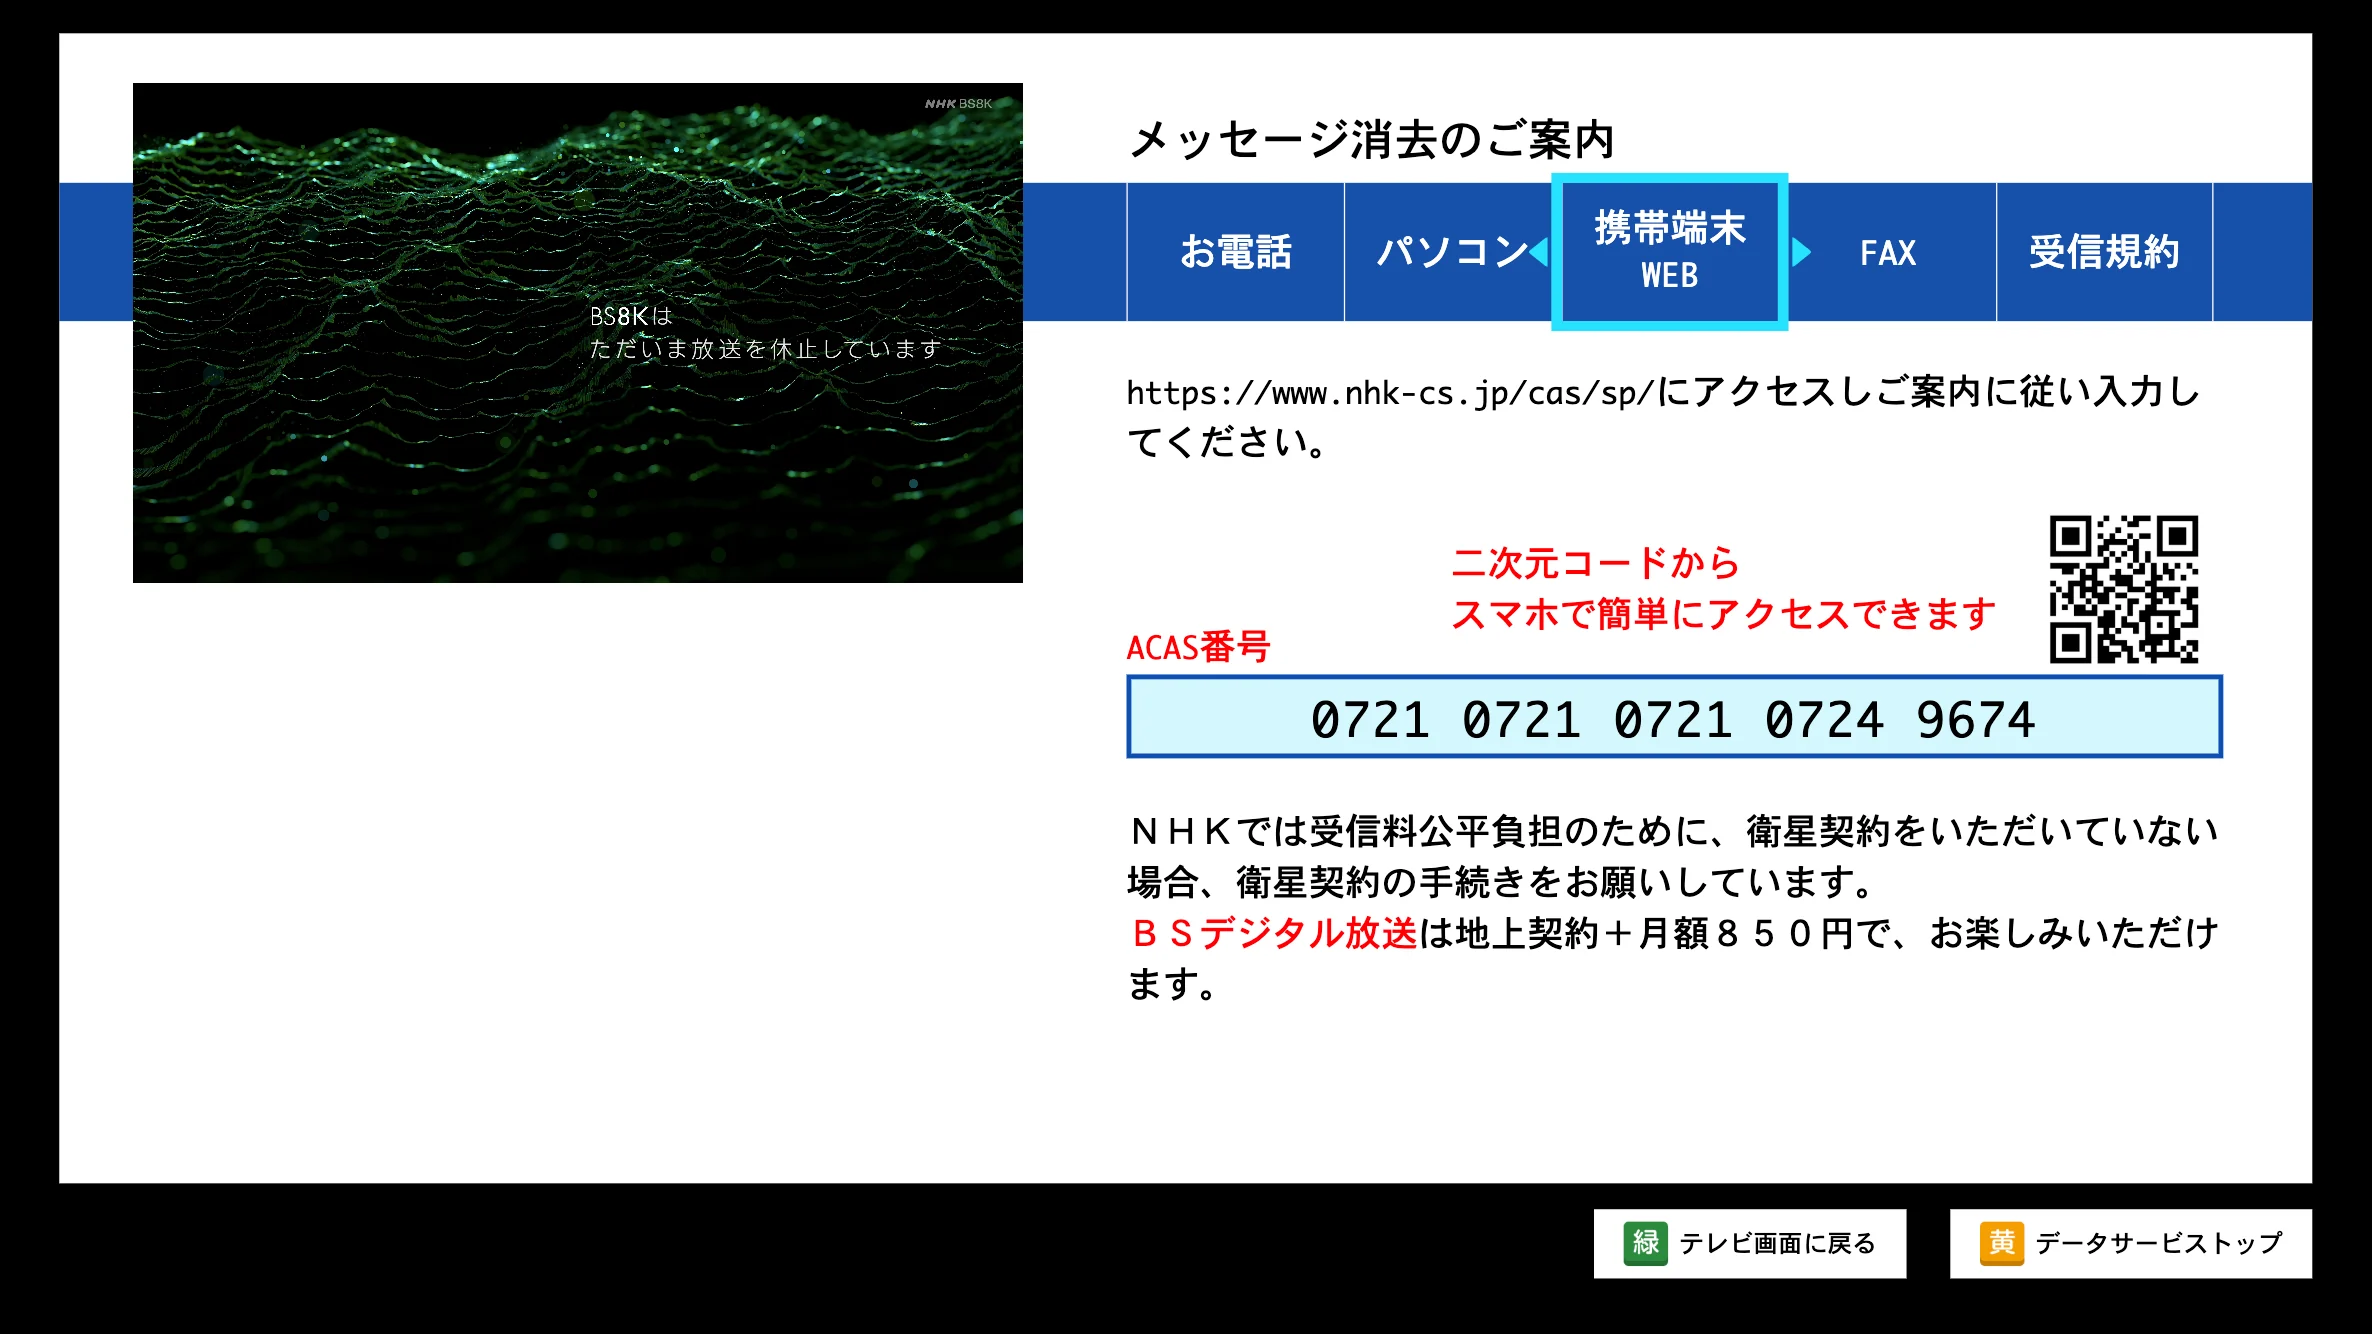
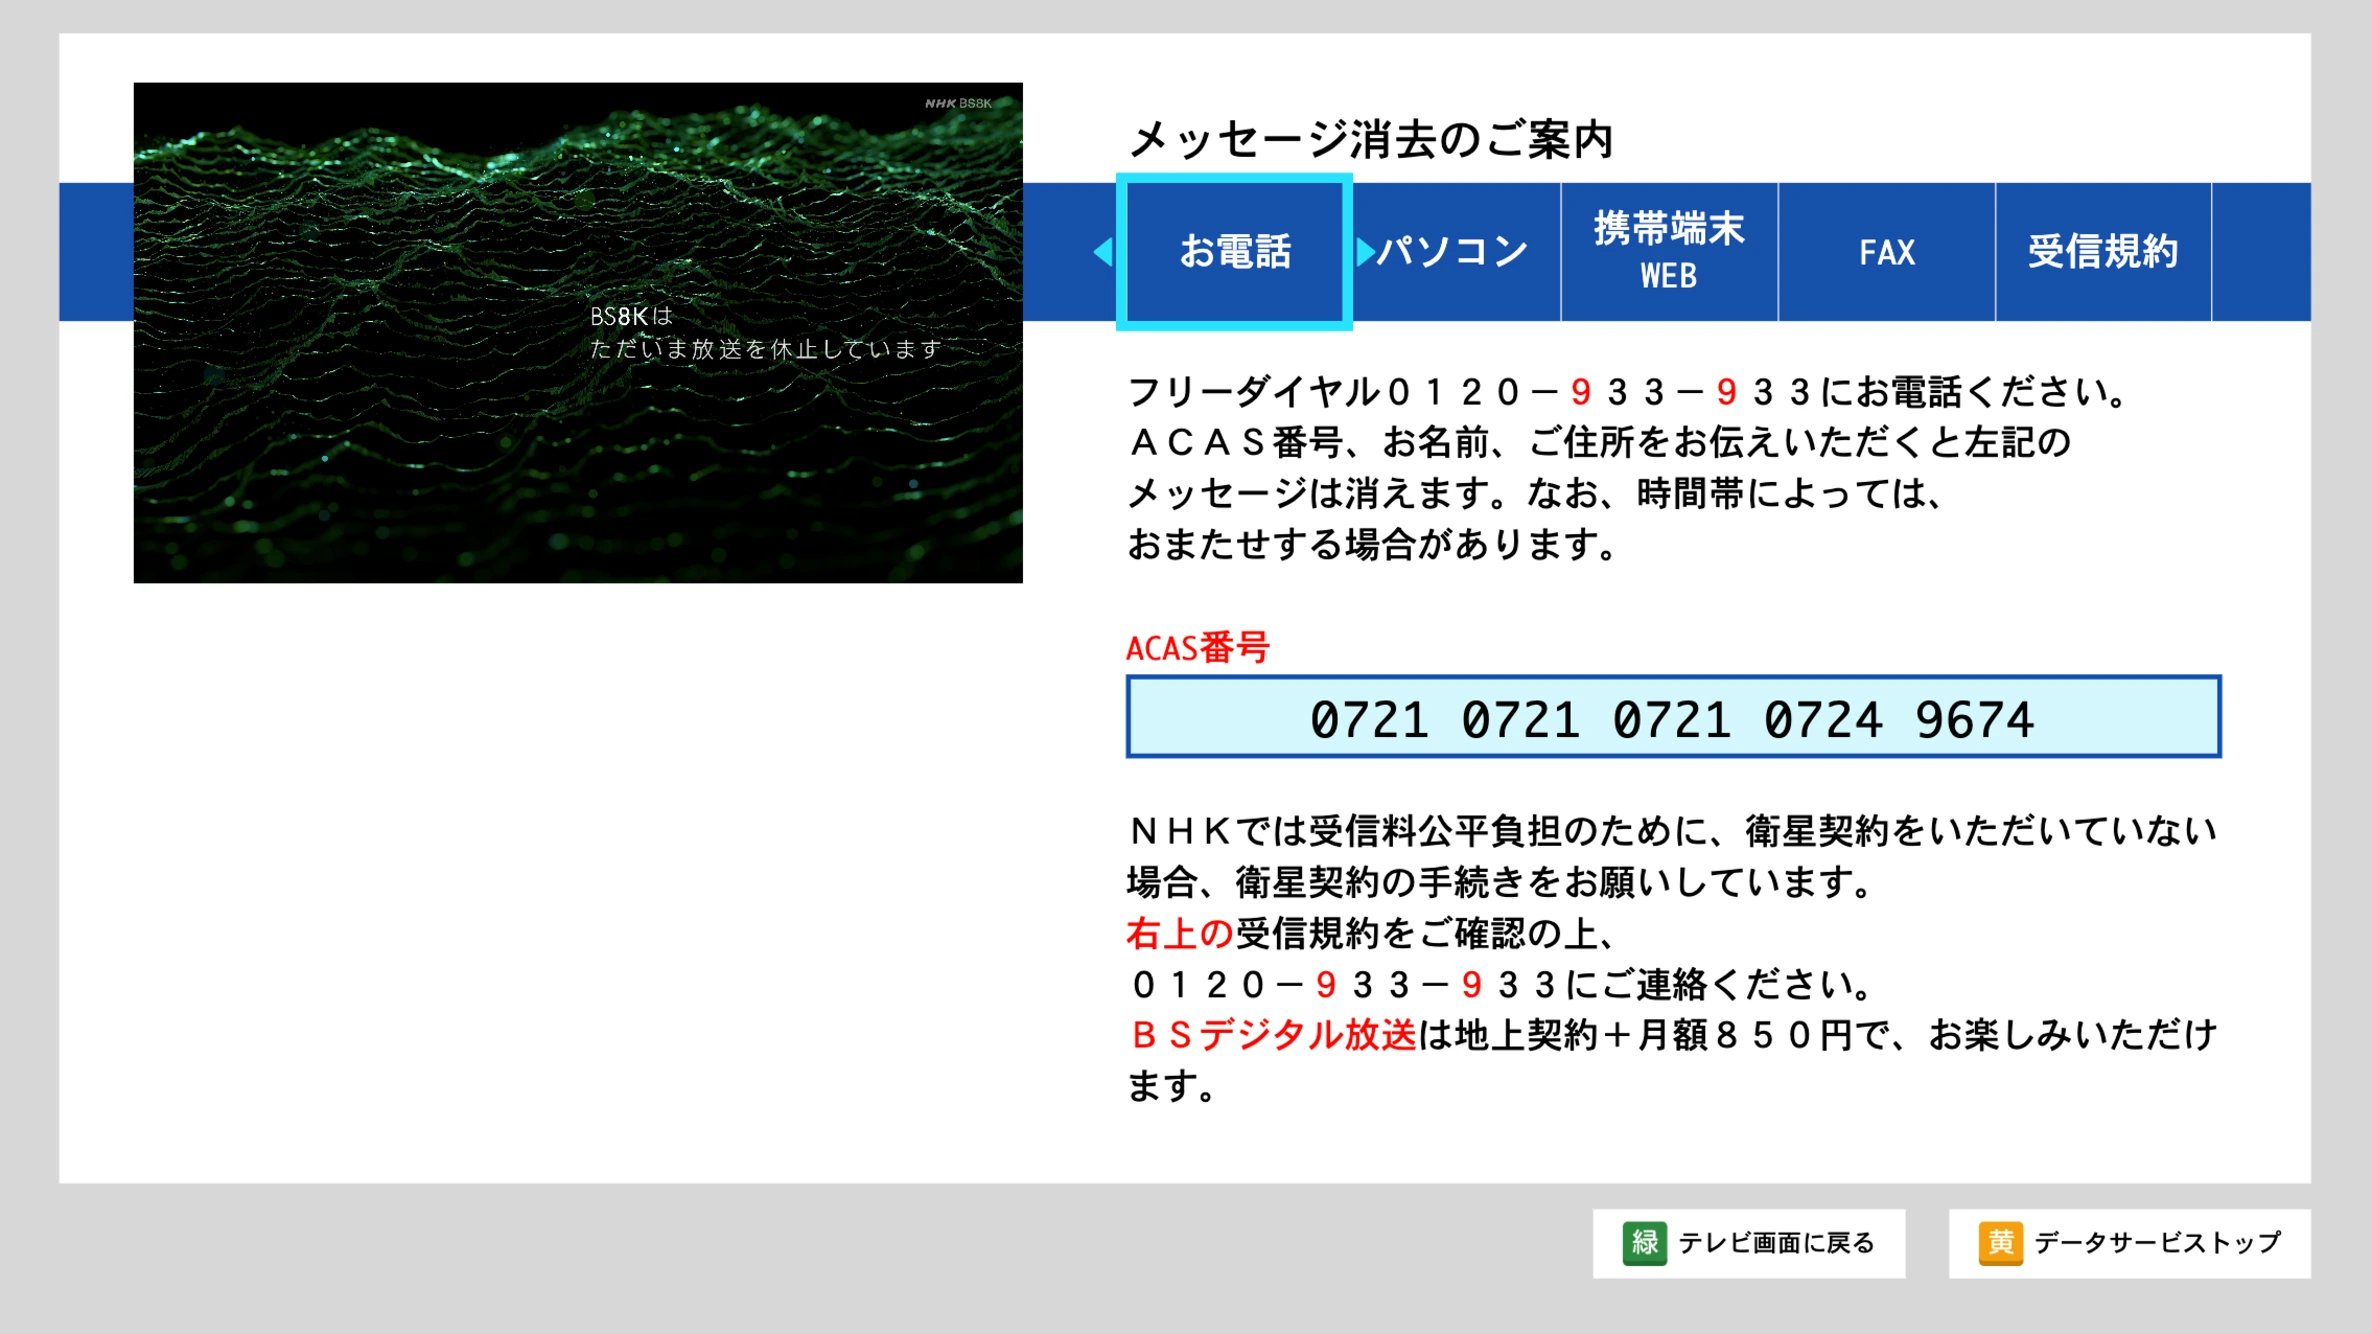
Add satellite-contract solicitation screen image to README

diff --git a/README.md b/README.md
@@ -16,6 +16,9 @@
 <p align="center">
   <img src="docs/images/bs8k-message-removal.webp" alt="NHK BS8K message-removal guide" width="100%">
 </p>
+<p align="center">
+  <img src="docs/images/bs8k-contract.webp" alt="NHK BS8K satellite-contract solicitation screen" width="100%">
+</p>
 
 ## 日本語
 
